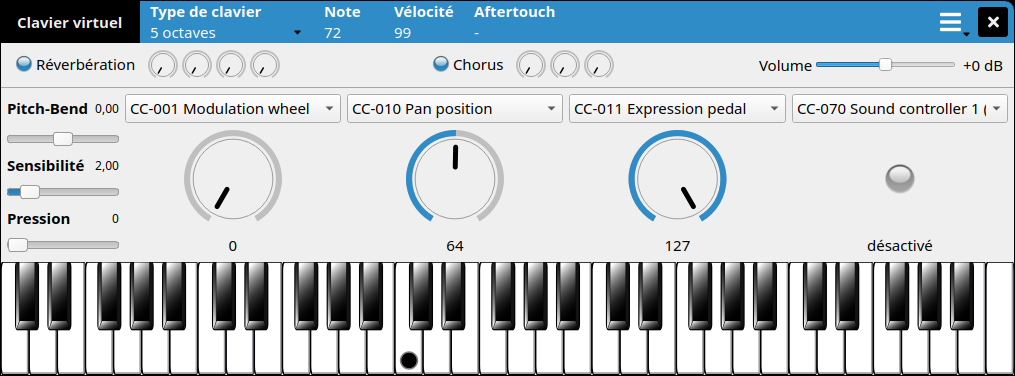
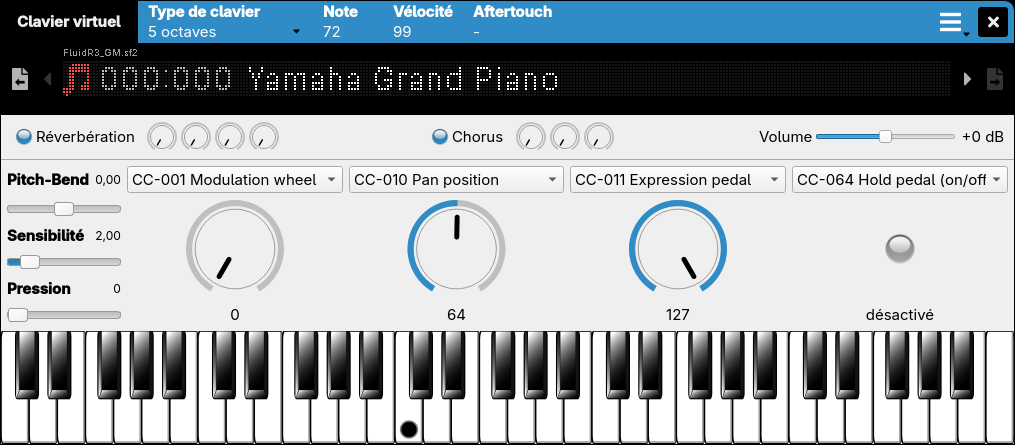
Virtual keyboard update

diff --git a/ru/manual/soundfont-explorer.md b/ru/manual/soundfont-explorer.md
@@ -22,7 +22,7 @@
   * количество семплов, инструментов и пресетов,
   * названия первых пресетов.
 
-Эти сведения выровнены по столбцам под заголовком. Кнопка :guilabel:`Отображение` справа от текстового поля открывает меню, в котором можно выбрать отображаемые столбцы (скрыть можно все, кроме имени) и включить или отключить пункт :guilabel:`Сводка пресетов`, то есть названия первых пресетов во второй строке. Без этой сводки каждый файл занимает одну строку, как в таблице.
+Эти сведения выровнены по столбцам под заголовком. Кнопка ![Отображение](images/toolbar_display.png "Отображение"){.inline} справа от текстового поля открывает меню, в котором можно выбрать отображаемые столбцы (скрыть можно все, кроме имени) и включить или отключить пункт :guilabel:`Сводка пресетов`, то есть названия первых пресетов во второй строке. Без этой сводки каждый файл занимает одну строку, как в таблице.
 
 ### Сведения о каждом семпле
 
@@ -67,9 +67,11 @@
 ## Воспроизведение элементов {#doc_play}
 
 
-Кнопка ![MIDI](images/toolbar_midi.png "MIDI"){.inline} справа от кнопки :guilabel:`Отображение` показывает или скрывает [MIDI-проигрыватель](manual/soundfont-editor/toolbar.md#doc_midi_player), кнопка ![piano](images/toolbar_piano.png "piano"){.inline} рядом с ней — [виртуальную клавиатуру](manual/soundfont-editor/toolbar.md#doc_keyboard), а кнопка ![рекордер](images/toolbar_recorder.png "рекордер"){.inline} — [рекордер](manual/soundfont-editor/toolbar.md#doc_recorder), как и кнопки на панели инструментов редактора.
+Кнопка ![MIDI](images/toolbar_midi.png "MIDI"){.inline} справа от кнопки ![Отображение](images/toolbar_display.png "Отображение"){.inline} показывает или скрывает [MIDI-проигрыватель](manual/soundfont-editor/toolbar.md#doc_midi_player), кнопка ![piano](images/toolbar_piano.png "piano"){.inline} рядом с ней — [виртуальную клавиатуру](manual/soundfont-editor/toolbar.md#doc_keyboard), а кнопка ![рекордер](images/toolbar_recorder.png "рекордер"){.inline} — [рекордер](manual/soundfont-editor/toolbar.md#doc_recorder), как и кнопки на панели инструментов редактора.
 
 Семпл, инструмент или пресет, выбранный в списках справа, можно сыграть на виртуальной клавиатуре или на внешней MIDI-клавиатуре, даже если виртуальная клавиатура скрыта. Как и в редакторе, виртуальная клавиатура показывает диапазон элемента или корневую клавишу семпла. Семпл воспроизводится в петле, если она у него есть, и в стерео, если отмечен параметр :guilabel:`стерео` [проигрывателя](manual/soundfont-editor/editing-pages/sample-editor.md#doc_player) семплов.
+
+[Дисплей](manual/soundfont-editor/toolbar.md#doc_keyboard_element) виртуальной клавиатуры показывает играемый элемент и имя его файла. Его стрелки выбирают предыдущий или следующий элемент, а две внешние кнопки — предыдущий или следующий файл, также с помощью :kbd:`PageUp` / :kbd:`PageDown` и :kbd:`Shift`+:kbd:`PageUp` / :kbd:`Shift`+:kbd:`PageDown`: так можно перебирать и играть файлы каталога, не покидая виртуальную клавиатуру.
 
 Когда элемент файла выбирается впервые, SoundFont загружается в фоновом режиме без открытия вкладки. Затем SoundFont сохраняется, пока выбираются элементы того же файла, и освобождается, когда в основном списке выбирается другой файл.
 

diff --git a/ja/manual/soundfont-editor/toolbar.md b/ja/manual/soundfont-editor/toolbar.md
@@ -154,6 +154,16 @@ MIDI信号
 ![仮想キーボード](images/virtual_keyboard.png "仮想キーボード")
 
 
+### 演奏中の要素 {#doc_keyboard_element}
+
+
+バナーの下の表示部には、キーボードで演奏している要素が表示されます。サンプル、インストゥルメント、プリセットの名前の前にそのアイコンが付き、プリセットの場合はバンク番号とプリセット番号も付きます。その上には、ファイル名が小さな文字で表示されます（一度も保存していないSoundFontの場合はSoundFontの名前）。演奏できるものがないとき、つまりサンプル、インストゥルメント、プリセットのどれも選択されていないとき、複数の要素が選択されているとき、または現在のタブがエディターでもSoundFontエクスプローラーでもないときは、:guilabel:`演奏できる要素が選択されていません` と表示されます。
+
+表示部の左右の矢印で、[ツリー](manual/soundfont-editor/tree.md)または[SoundFontエクスプローラー](manual/soundfont-explorer.md#doc_play)のリストの順に、同じ種類の前または次の要素を選択できます。フォーカスは仮想キーボードに残るため、新しい要素をすぐにパソコンのキーボードで演奏できます。SoundFontエクスプローラーでファイルだけを選択しているとき、またはツリーで見出しだけを選択しているときは、右の矢印でその見出しの下の最初の要素、またはファイルやSoundFontの最初のプリセット（なければインストゥルメント、それもなければサンプル）が選択されます。矢印は :kbd:`PageUp` と :kbd:`PageDown` でも操作できます。
+
+表示部の両端にある2つのボタンで、前または次のファイルを選択できます。:kbd:`Shift`+:kbd:`PageUp` と :kbd:`Shift`+:kbd:`PageDown` でも操作できます。SoundFontエクスプローラーではメインリストの前または次のファイルが選択され、サンプル、インストゥルメント、プリセットのいずれかを選択している場合は、新しいファイルで同じ種類の最初の要素が選択されます。エディターでは、タブの順序で前または次のエディターに切り替わり（ほかの種類のタブは飛ばされます）、そのエディターでの選択がそのまま使われます。ほかのタブでは、これらのボタンは無効になります。
+
+
 ### ピアノ鍵盤
 
 
@@ -200,6 +210,10 @@ MIDI信号
   :kbd:`Ctrl`+:kbd:`1` を使うと、最も低いオクターブを演奏できます。
   最も高いオクターブには :kbd:`Ctrl`+:kbd:`8` で届きます。
   これらのショートカットも、仮想キーボードのウィンドウがアクティブであれば使えます。
+
+:kbd:`PageUp` / :kbd:`PageDown`
+: 前または次の[演奏中の要素](#doc_keyboard_element)を選択します。:kbd:`Shift` キーと組み合わせると、SoundFontエクスプローラーの前または次のファイル、または前または次のエディターを選択します。
+  これらも、仮想キーボードのウィンドウがアクティブになればすぐに使えます。
 
 :kbd:`→` / :kbd:`←`
 : 右矢印または左矢印を押すと、最後に弾いたキーのすぐ上またはすぐ下の音を、同じベロシティで鳴らします。
@@ -285,6 +299,7 @@ MIDIプレーヤーは[シンセモード](tutorials/use-polyphone-as-a-synthesi
 * 再生を停止して先頭に戻るボタン
 * [再生設定](#doc_midi_player_settings)を開くボタン
 
+MIDIファイルは、ウィンドウにドラッグ＆ドロップして開くこともできます。
 ファイルを読み込めない場合は、チャンネルの代わりにその理由が表示されます。
 ウィンドウを閉じると再生は停止します。
 

diff --git a/fr/manual/soundfont-explorer.md b/fr/manual/soundfont-explorer.md
@@ -22,7 +22,7 @@ Un clic sur un fichier pouvant être scanné affiche, dans les listes de la part
   * nombre d'échantillons, d'instruments et d'ensembles,
   * noms des premiers ensembles.
 
-Ces détails sont alignés en colonnes sous un en-tête. Le bouton :guilabel:`Affichage`, à droite du champ de texte, ouvre un menu permettant de choisir les colonnes affichées (toutes peuvent être masquées sauf le nom) et d'afficher ou non le :guilabel:`Résumé des ensembles`, c'est-à-dire les noms des premiers ensembles sur une seconde ligne. Sans ce résumé, chaque fichier tient sur une seule ligne, comme dans un tableau.
+Ces détails sont alignés en colonnes sous un en-tête. Le bouton ![Affichage](images/toolbar_display.png "Affichage"){.inline}, à droite du champ de texte, ouvre un menu permettant de choisir les colonnes affichées (toutes peuvent être masquées sauf le nom) et d'afficher ou non le :guilabel:`Résumé des ensembles`, c'est-à-dire les noms des premiers ensembles sur une seconde ligne. Sans ce résumé, chaque fichier tient sur une seule ligne, comme dans un tableau.
 
 ### Informations pour chaque échantillon
 
@@ -67,9 +67,11 @@ Ces opérations permettent de gérer et de nettoyer rapidement une collection lo
 ## Jouer les éléments {#doc_play}
 
 
-Le bouton ![MIDI](images/toolbar_midi.png "MIDI"){.inline}, à droite du bouton :guilabel:`Affichage`, affiche ou masque le [lecteur MIDI](manual/soundfont-editor/toolbar.md#doc_midi_player), le bouton ![piano](images/toolbar_piano.png "piano"){.inline} situé à côté affiche ou masque le [clavier virtuel](manual/soundfont-editor/toolbar.md#doc_keyboard), et le bouton ![magnétophone](images/toolbar_recorder.png "magnétophone"){.inline} affiche ou masque le [magnétophone](manual/soundfont-editor/toolbar.md#doc_recorder), comme les boutons de la barre d'outils de l'éditeur.
+Le bouton ![MIDI](images/toolbar_midi.png "MIDI"){.inline}, à droite du bouton ![Affichage](images/toolbar_display.png "Affichage"){.inline}, affiche ou masque le [lecteur MIDI](manual/soundfont-editor/toolbar.md#doc_midi_player), le bouton ![piano](images/toolbar_piano.png "piano"){.inline} situé à côté affiche ou masque le [clavier virtuel](manual/soundfont-editor/toolbar.md#doc_keyboard), et le bouton ![magnétophone](images/toolbar_recorder.png "magnétophone"){.inline} affiche ou masque le [magnétophone](manual/soundfont-editor/toolbar.md#doc_recorder), comme les boutons de la barre d'outils de l'éditeur.
 
 L'échantillon, l'instrument ou l'ensemble sélectionné dans les listes de droite peut être joué avec le clavier virtuel, ou avec un clavier MIDI externe même si le clavier virtuel est masqué. Comme dans l'éditeur, le clavier virtuel montre l'étendue de l'élément, ou la note de référence d'un échantillon. Un échantillon est joué en boucle s'il en possède une, et en stéréo si l'option :guilabel:`stéréo` du [lecteur](manual/soundfont-editor/editing-pages/sample-editor.md#doc_player) d'échantillon est cochée.
+
+L'[afficheur](manual/soundfont-editor/toolbar.md#doc_keyboard_element) du clavier virtuel montre l'élément joué et le nom de son fichier. Ses flèches sélectionnent l'élément précédent ou suivant et ses deux boutons extérieurs le fichier précédent ou suivant, également avec :kbd:`Page↑` / :kbd:`Page↓` et :kbd:`Maj`+:kbd:`Page↑` / :kbd:`Maj`+:kbd:`Page↓` : les fichiers d'un répertoire peuvent ainsi être parcourus et joués sans quitter le clavier virtuel.
 
 La première fois qu'un élément d'un fichier est sélectionné, la banque de sons est chargée en arrière-plan sans ouvrir d'onglet. La banque de sons est ensuite conservée tant que les éléments sélectionnés appartiennent au même fichier, et libérée lorsqu'un autre fichier est sélectionné dans la liste principale.
 

diff --git a/de/manual/soundfont-explorer.md b/de/manual/soundfont-explorer.md
@@ -22,7 +22,7 @@ Ein Klick auf eine durchsuchbare Datei zeigt in den Listen auf der rechten Seite
   * Anzahl der Samples, Instrumente und Presets,
   * Namen der ersten Presets.
 
-Diese Angaben sind in Spalten unter einer Kopfzeile ausgerichtet. Die Schaltfläche :guilabel:`Anzeige` rechts neben dem Textfeld öffnet ein Menü, in dem die angezeigten Spalten gewählt werden (alle außer dem Namen können ausgeblendet werden) und festgelegt wird, ob die :guilabel:`Preset-Übersicht` angezeigt wird, also die Namen der ersten Presets in einer zweiten Zeile. Ohne diese Übersicht belegt jede Datei nur eine Zeile, wie in einer Tabelle.
+Diese Angaben sind in Spalten unter einer Kopfzeile ausgerichtet. Die Schaltfläche ![Anzeige](images/toolbar_display.png "Anzeige"){.inline} rechts neben dem Textfeld öffnet ein Menü, in dem die angezeigten Spalten gewählt werden (alle außer dem Namen können ausgeblendet werden) und festgelegt wird, ob die :guilabel:`Preset-Übersicht` angezeigt wird, also die Namen der ersten Presets in einer zweiten Zeile. Ohne diese Übersicht belegt jede Datei nur eine Zeile, wie in einer Tabelle.
 
 ### Informationen zu jedem Sample
 
@@ -67,9 +67,11 @@ Mit diesen Operationen lässt sich eine lokale Soundfont-Sammlung schnell verwal
 ## Elemente abspielen {#doc_play}
 
 
-Der Button ![MIDI](images/toolbar_midi.png "MIDI"){.inline} rechts neben dem Button :guilabel:`Anzeige` blendet den [MIDI-Player](manual/soundfont-editor/toolbar.md#doc_midi_player) ein oder aus, der Button ![piano](images/toolbar_piano.png "piano"){.inline} daneben die [virtuelle Tastatur](manual/soundfont-editor/toolbar.md#doc_keyboard) und der Button ![Rekorder](images/toolbar_recorder.png "Rekorder"){.inline} den [Rekorder](manual/soundfont-editor/toolbar.md#doc_recorder), wie die entsprechenden Buttons der Werkzeugleiste des Editors.
+Der Button ![MIDI](images/toolbar_midi.png "MIDI"){.inline} rechts neben dem Button ![Anzeige](images/toolbar_display.png "Anzeige"){.inline} blendet den [MIDI-Player](manual/soundfont-editor/toolbar.md#doc_midi_player) ein oder aus, der Button ![piano](images/toolbar_piano.png "piano"){.inline} daneben die [virtuelle Tastatur](manual/soundfont-editor/toolbar.md#doc_keyboard) und der Button ![Rekorder](images/toolbar_recorder.png "Rekorder"){.inline} den [Rekorder](manual/soundfont-editor/toolbar.md#doc_recorder), wie die entsprechenden Buttons der Werkzeugleiste des Editors.
 
 Das in den Listen auf der rechten Seite ausgewählte Sample, Instrument oder Preset kann mit der virtuellen Tastatur gespielt werden, oder mit einer externen MIDI-Tastatur, auch wenn die virtuelle Tastatur ausgeblendet ist. Wie im Editor zeigt die virtuelle Tastatur den Tonumfang des Elements bzw. die Basisnote eines Samples. Ein Sample wird im Loop abgespielt, wenn es einen Loop besitzt, und in Stereo, wenn die Option :guilabel:`Stereo` des [Players](manual/soundfont-editor/editing-pages/sample-editor.md#doc_player) für Samples aktiviert ist.
+
+Die [Anzeige](manual/soundfont-editor/toolbar.md#doc_keyboard_element) der virtuellen Tastatur zeigt das gespielte Element und den Namen seiner Datei. Ihre Pfeile wählen das vorherige oder nächste Element aus und ihre beiden äußeren Schaltflächen die vorherige oder nächste Datei, auch mit :kbd:`PageUp` / :kbd:`PageDown` und :kbd:`Shift`+:kbd:`PageUp` / :kbd:`Shift`+:kbd:`PageDown`: So lassen sich die Dateien eines Verzeichnisses durchgehen und spielen, ohne die virtuelle Tastatur zu verlassen.
 
 Wenn zum ersten Mal ein Element einer Datei ausgewählt wird, wird der Soundfont im Hintergrund geladen, ohne einen Tab zu öffnen. Der Soundfont bleibt dann geladen, solange Elemente derselben Datei ausgewählt werden, und wird freigegeben, sobald in der Hauptliste eine andere Datei ausgewählt wird.
 

diff --git a/it/manual/soundfont-explorer.md b/it/manual/soundfont-explorer.md
@@ -22,7 +22,7 @@ Un clic su un file analizzabile mostra, negli elenchi nella parte destra dell'in
   * numero di campioni, strumenti e preset,
   * nomi dei primi preset.
 
-Questi dettagli sono allineati in colonne sotto un'intestazione. Il pulsante :guilabel:`Visualizzazione`, a destra del campo di testo, apre un menu che permette di scegliere le colonne mostrate (tutte possono essere nascoste tranne il nome) e di mostrare o meno il :guilabel:`Riepilogo dei preset`, cioè i nomi dei primi preset su una seconda riga. Senza questo riepilogo, ogni file occupa una sola riga, come in una tabella.
+Questi dettagli sono allineati in colonne sotto un'intestazione. Il pulsante ![Visualizzazione](images/toolbar_display.png "Visualizzazione"){.inline}, a destra del campo di testo, apre un menu che permette di scegliere le colonne mostrate (tutte possono essere nascoste tranne il nome) e di mostrare o meno il :guilabel:`Riepilogo dei preset`, cioè i nomi dei primi preset su una seconda riga. Senza questo riepilogo, ogni file occupa una sola riga, come in una tabella.
 
 ### Informazioni per ogni campione
 
@@ -67,9 +67,11 @@ Queste operazioni permettono di gestire e riordinare rapidamente una raccolta lo
 ## Suonare gli elementi {#doc_play}
 
 
-Il pulsante ![MIDI](images/toolbar_midi.png "MIDI"){.inline}, a destra del pulsante :guilabel:`Visualizzazione`, mostra o nasconde il [lettore MIDI](manual/soundfont-editor/toolbar.md#doc_midi_player), il pulsante ![piano](images/toolbar_piano.png "piano"){.inline} accanto mostra o nasconde la [tastiera virtuale](manual/soundfont-editor/toolbar.md#doc_keyboard), e il pulsante ![registratore](images/toolbar_recorder.png "registratore"){.inline} mostra o nasconde il [registratore](manual/soundfont-editor/toolbar.md#doc_recorder), come i pulsanti della barra degli strumenti dell'editor.
+Il pulsante ![MIDI](images/toolbar_midi.png "MIDI"){.inline}, a destra del pulsante ![Visualizzazione](images/toolbar_display.png "Visualizzazione"){.inline}, mostra o nasconde il [lettore MIDI](manual/soundfont-editor/toolbar.md#doc_midi_player), il pulsante ![piano](images/toolbar_piano.png "piano"){.inline} accanto mostra o nasconde la [tastiera virtuale](manual/soundfont-editor/toolbar.md#doc_keyboard), e il pulsante ![registratore](images/toolbar_recorder.png "registratore"){.inline} mostra o nasconde il [registratore](manual/soundfont-editor/toolbar.md#doc_recorder), come i pulsanti della barra degli strumenti dell'editor.
 
 Il campione, lo strumento o il preset selezionato negli elenchi di destra può essere suonato con la tastiera virtuale, oppure con una tastiera MIDI esterna anche se la tastiera virtuale è nascosta. Come nell'editor, la tastiera virtuale mostra l'estensione dell'elemento, o la nota di base di un campione. Un campione viene riprodotto in loop se ne ha uno, e in stereo se l'opzione :guilabel:`stereo` del [lettore](manual/soundfont-editor/editing-pages/sample-editor.md#doc_player) del campione è selezionata.
+
+Il [display](manual/soundfont-editor/toolbar.md#doc_keyboard_element) della tastiera virtuale mostra l'elemento suonato e il nome del suo file. Le sue frecce selezionano l'elemento precedente o successivo e i suoi due pulsanti esterni il file precedente o successivo, anche con :kbd:`PageUp` / :kbd:`PageDown` e :kbd:`Shift`+:kbd:`PageUp` / :kbd:`Shift`+:kbd:`PageDown`: i file di una cartella possono così essere sfogliati e suonati senza lasciare la tastiera virtuale.
 
 La prima volta che viene selezionato un elemento di un file, il soundfont viene caricato in background senza aprire una scheda. Il soundfont viene poi conservato finché vengono selezionati elementi dello stesso file, e rilasciato quando nell'elenco principale viene selezionato un altro file.
 

diff --git a/es/manual/soundfont-explorer.md b/es/manual/soundfont-explorer.md
@@ -22,7 +22,7 @@ Al hacer clic en un archivo analizable se muestran, en las listas del lado derec
   * número de muestras, instrumentos y conjuntos,
   * nombres de los primeros conjuntos.
 
-Estos detalles se alinean en columnas bajo un encabezado. El botón :guilabel:`Visualización`, a la derecha del campo de texto, abre un menú que permite elegir las columnas mostradas (todas pueden ocultarse salvo el nombre) y mostrar o no el :guilabel:`Resumen de los conjuntos`, es decir, los nombres de los primeros conjuntos en una segunda línea. Sin este resumen, cada archivo ocupa una sola línea, como en una tabla.
+Estos detalles se alinean en columnas bajo un encabezado. El botón ![Visualización](images/toolbar_display.png "Visualización"){.inline}, a la derecha del campo de texto, abre un menú que permite elegir las columnas mostradas (todas pueden ocultarse salvo el nombre) y mostrar o no el :guilabel:`Resumen de los conjuntos`, es decir, los nombres de los primeros conjuntos en una segunda línea. Sin este resumen, cada archivo ocupa una sola línea, como en una tabla.
 
 ### Información de cada muestra
 
@@ -67,9 +67,11 @@ Estas operaciones permiten gestionar y ordenar rápidamente una colección local
 ## Tocar los elementos {#doc_play}
 
 
-El botón ![MIDI](images/toolbar_midi.png "MIDI"){.inline}, a la derecha del botón :guilabel:`Visualización`, muestra u oculta el [reproductor MIDI](manual/soundfont-editor/toolbar.md#doc_midi_player), el botón ![piano](images/toolbar_piano.png "piano"){.inline} situado a su lado muestra u oculta el [teclado virtual](manual/soundfont-editor/toolbar.md#doc_keyboard), y el botón ![grabadora](images/toolbar_recorder.png "grabadora"){.inline} muestra u oculta la [grabadora](manual/soundfont-editor/toolbar.md#doc_recorder), igual que los botones de la barra de herramientas del editor.
+El botón ![MIDI](images/toolbar_midi.png "MIDI"){.inline}, a la derecha del botón ![Visualización](images/toolbar_display.png "Visualización"){.inline}, muestra u oculta el [reproductor MIDI](manual/soundfont-editor/toolbar.md#doc_midi_player), el botón ![piano](images/toolbar_piano.png "piano"){.inline} situado a su lado muestra u oculta el [teclado virtual](manual/soundfont-editor/toolbar.md#doc_keyboard), y el botón ![grabadora](images/toolbar_recorder.png "grabadora"){.inline} muestra u oculta la [grabadora](manual/soundfont-editor/toolbar.md#doc_recorder), igual que los botones de la barra de herramientas del editor.
 
 La muestra, el instrumento o el conjunto seleccionado en las listas de la derecha se puede tocar con el teclado virtual, o con un teclado MIDI externo aunque el teclado virtual esté oculto. Como en el editor, el teclado virtual muestra la extensión del elemento, o la nota raíz de una muestra. Una muestra se reproduce en bucle si tiene uno, y en estéreo si la opción :guilabel:`estéreo` del [reproductor](manual/soundfont-editor/editing-pages/sample-editor.md#doc_player) de muestras está marcada.
+
+La [pantalla](manual/soundfont-editor/toolbar.md#doc_keyboard_element) del teclado virtual muestra el elemento tocado y el nombre de su archivo. Sus flechas seleccionan el elemento anterior o siguiente y sus dos botones exteriores el archivo anterior o siguiente, también con :kbd:`PageUp` / :kbd:`PageDown` y :kbd:`Shift`+:kbd:`PageUp` / :kbd:`Shift`+:kbd:`PageDown`: así se pueden recorrer y tocar los archivos de un directorio sin salir del teclado virtual.
 
 La primera vez que se selecciona un elemento de un archivo, el soundfont se carga en segundo plano sin abrir ninguna pestaña. Después, el soundfont se conserva mientras se seleccionen elementos del mismo archivo, y se libera cuando se selecciona otro archivo en la lista principal.
 

diff --git a/pt/manual/soundfont-explorer.md b/pt/manual/soundfont-explorer.md
@@ -22,7 +22,7 @@ Clicar em um arquivo analisável exibe, nas listas do lado direito da interface,
   * número de amostras, instrumentos e predefinições,
   * nomes das primeiras predefinições.
 
-Esses detalhes ficam alinhados em colunas sob um cabeçalho. O botão :guilabel:`Visualização`, à direita do campo de texto, abre um menu que permite escolher as colunas exibidas (todas podem ser ocultadas, exceto o nome) e exibir ou não o :guilabel:`Resumo das predefinições`, ou seja, os nomes das primeiras predefinições em uma segunda linha. Sem esse resumo, cada arquivo ocupa uma única linha, como em uma tabela.
+Esses detalhes ficam alinhados em colunas sob um cabeçalho. O botão ![Visualização](images/toolbar_display.png "Visualização"){.inline}, à direita do campo de texto, abre um menu que permite escolher as colunas exibidas (todas podem ser ocultadas, exceto o nome) e exibir ou não o :guilabel:`Resumo das predefinições`, ou seja, os nomes das primeiras predefinições em uma segunda linha. Sem esse resumo, cada arquivo ocupa uma única linha, como em uma tabela.
 
 ### Informações de cada amostra
 
@@ -67,9 +67,11 @@ Essas operações permitem gerenciar e organizar rapidamente uma coleção local
 ## Tocar os elementos {#doc_play}
 
 
-O botão ![MIDI](images/toolbar_midi.png "MIDI"){.inline}, à direita do botão :guilabel:`Visualização`, exibe ou oculta o [reprodutor MIDI](manual/soundfont-editor/toolbar.md#doc_midi_player), o botão ![piano](images/toolbar_piano.png "piano"){.inline} ao lado exibe ou oculta o [teclado virtual](manual/soundfont-editor/toolbar.md#doc_keyboard), e o botão ![gravador](images/toolbar_recorder.png "gravador"){.inline} exibe ou oculta o [gravador](manual/soundfont-editor/toolbar.md#doc_recorder), como os botões da barra de ferramentas do editor.
+O botão ![MIDI](images/toolbar_midi.png "MIDI"){.inline}, à direita do botão ![Visualização](images/toolbar_display.png "Visualização"){.inline}, exibe ou oculta o [reprodutor MIDI](manual/soundfont-editor/toolbar.md#doc_midi_player), o botão ![piano](images/toolbar_piano.png "piano"){.inline} ao lado exibe ou oculta o [teclado virtual](manual/soundfont-editor/toolbar.md#doc_keyboard), e o botão ![gravador](images/toolbar_recorder.png "gravador"){.inline} exibe ou oculta o [gravador](manual/soundfont-editor/toolbar.md#doc_recorder), como os botões da barra de ferramentas do editor.
 
 A amostra, o instrumento ou a predefinição selecionada nas listas da direita pode ser tocada com o teclado virtual, ou com um teclado MIDI externo mesmo que o teclado virtual esteja oculto. Como no editor, o teclado virtual mostra a extensão do elemento, ou a nota base de uma amostra. Uma amostra é tocada em loop se tiver um, e em estéreo se a opção :guilabel:`estéreo` do [reprodutor](manual/soundfont-editor/editing-pages/sample-editor.md#doc_player) de amostras estiver marcada.
+
+O [visor](manual/soundfont-editor/toolbar.md#doc_keyboard_element) do teclado virtual mostra o elemento tocado e o nome do seu arquivo. Suas setas selecionam o elemento anterior ou seguinte e seus dois botões externos o arquivo anterior ou seguinte, também com :kbd:`PageUp` / :kbd:`PageDown` e :kbd:`Shift`+:kbd:`PageUp` / :kbd:`Shift`+:kbd:`PageDown`: os arquivos de um diretório podem assim ser percorridos e tocados sem sair do teclado virtual.
 
 Na primeira vez que um elemento de um arquivo é selecionado, a soundfont é carregada em segundo plano sem abrir uma aba. A soundfont é então mantida enquanto elementos do mesmo arquivo forem selecionados, e liberada quando outro arquivo é selecionado na lista principal.
 

diff --git a/fr/manual/soundfont-editor/toolbar.md b/fr/manual/soundfont-editor/toolbar.md
@@ -154,6 +154,16 @@ Le clavier virtuel peut également être affiché depuis l'[explorateur de banqu
 ![Clavier virtuel](images/virtual_keyboard.png "Clavier virtuel")
 
 
+### Élément joué {#doc_keyboard_element}
+
+
+L'afficheur situé sous le bandeau montre l'élément joué par le clavier : le nom de l'échantillon, de l'instrument ou de l'ensemble, précédé de son icône et, pour un ensemble, de ses numéros de banque et d'ensemble. Le nom de son fichier est écrit au-dessus en petits caractères (ou le nom de la banque de sons si elle n'a jamais été enregistrée). :guilabel:`Aucun élément jouable sélectionné` s'affiche lorsque rien ne peut être joué : aucun échantillon, instrument ou ensemble n'est sélectionné, plusieurs éléments sont sélectionnés, ou l'onglet courant n'est ni un éditeur ni un explorateur de banques de sons.
+
+Les flèches de part et d'autre de l'afficheur sélectionnent l'élément précédent ou suivant du même type, dans l'ordre de l'[arborescence](manual/soundfont-editor/tree.md) ou des listes de l'[explorateur de banques de sons](manual/soundfont-explorer.md#doc_play). Le clavier virtuel garde le focus, ce qui permet de jouer aussitôt le nouvel élément avec le clavier de l'ordinateur. Lorsque seul un fichier est sélectionné dans l'explorateur, ou seulement un entête dans l'arborescence, la flèche de droite sélectionne le premier élément sous cet entête, ou le premier ensemble (à défaut instrument, à défaut échantillon) du fichier ou de la banque de sons. Les flèches sont également accessibles avec :kbd:`Page↑` et :kbd:`Page↓`.
+
+Deux boutons supplémentaires aux extrémités de l'afficheur sélectionnent le fichier précédent ou suivant, également avec :kbd:`Maj`+:kbd:`Page↑` et :kbd:`Maj`+:kbd:`Page↓`. Avec un explorateur de banques de sons, il s'agit du fichier précédent ou suivant de la liste principale : si un échantillon, un instrument ou un ensemble est sélectionné, le premier élément du même type est alors sélectionné dans le nouveau fichier. Avec un éditeur, il s'agit de l'éditeur précédent ou suivant dans l'ordre des onglets (les autres types d'onglets étant ignorés), qui conserve sa propre sélection. Dans les autres onglets, ces boutons sont désactivés.
+
+
 ### Clavier de piano
 
 
@@ -200,6 +210,10 @@ en utilisant un clavier MIDI externe
   Après l'utilisation de :kbd:`Ctrl`+:kbd:`1`, les octaves les plus graves peuvent être jouées.
   Les octaves les plus hautes sont atteintes en utilisant :kbd:`Ctrl`+:kbd:`8`.
   Ils fonctionnent eux aussi dès que la fenêtre du clavier virtuel est active.
+
+:kbd:`Page↑` / :kbd:`Page↓`
+: Ces touches sélectionnent l'[élément joué](#doc_keyboard_element) précédent ou suivant, et le fichier précédent ou suivant d'un explorateur de banques de sons, ou l'éditeur précédent ou suivant, lorsqu'elles sont combinées avec la touche :kbd:`Maj`.
+  Elles fonctionnent également dès que la fenêtre du clavier virtuel est active.
 
 :kbd:`→` / :kbd:`←`
 : Les flèches droite et gauche jouent la note située juste au-dessus ou juste en dessous de la dernière note jouée, avec la même vélocité.
@@ -285,6 +299,7 @@ Le bandeau en haut de la fenêtre contient, de gauche à droite&nbsp;:
 * un bouton pour arrêter la lecture et revenir au début,
 * un bouton ouvrant les [paramètres de lecture](#doc_midi_player_settings).
 
+Un fichier MIDI peut aussi être ouvert par glisser-déposer sur la fenêtre.
 Si le fichier ne peut pas être lu, la raison est affichée à la place des canaux.
 La lecture s'arrête lorsque la fenêtre est fermée.
 

diff --git a/en/manual/soundfont-explorer.md b/en/manual/soundfont-explorer.md
@@ -22,7 +22,7 @@ Clicking on a scannable file displays, in the lists on the right side of the int
   * number of samples, instruments and presets,
   * names of the first presets.
 
-These details are aligned in columns under a header. The :guilabel:`Display` button, to the right of the text field, opens a menu for choosing the columns shown (all of them can be hidden except the name) and whether the :guilabel:`Preset summary` is displayed, that is the names of the first presets on a second line. Without this summary, each file takes up a single line, as in a table.
+These details are aligned in columns under a header. The ![Display](images/toolbar_display.png "Display"){.inline} button, to the right of the text field, opens a menu for choosing the columns shown (all of them can be hidden except the name) and whether the :guilabel:`Preset summary` is displayed, that is the names of the first presets on a second line. Without this summary, each file takes up a single line, as in a table.
 
 ### Information for each sample
 
@@ -67,9 +67,11 @@ These operations allow you to quickly manage and clean up a local soundfont coll
 ## Playing the elements {#doc_play}
 
 
-The ![MIDI](images/toolbar_midi.png "MIDI"){.inline} button, on the right of the :guilabel:`Display` button, shows or hides the [MIDI player](manual/soundfont-editor/toolbar.md#doc_midi_player), the ![piano](images/toolbar_piano.png "piano"){.inline} button next to it shows or hides the [virtual keyboard](manual/soundfont-editor/toolbar.md#doc_keyboard), and the ![recorder](images/toolbar_recorder.png "recorder"){.inline} button shows or hides the [recorder](manual/soundfont-editor/toolbar.md#doc_recorder), like the buttons of the editor toolbar.
+The ![MIDI](images/toolbar_midi.png "MIDI"){.inline} button, on the right of the ![Display](images/toolbar_display.png "Display"){.inline} button, shows or hides the [MIDI player](manual/soundfont-editor/toolbar.md#doc_midi_player), the ![piano](images/toolbar_piano.png "piano"){.inline} button next to it shows or hides the [virtual keyboard](manual/soundfont-editor/toolbar.md#doc_keyboard), and the ![recorder](images/toolbar_recorder.png "recorder"){.inline} button shows or hides the [recorder](manual/soundfont-editor/toolbar.md#doc_recorder), like the buttons of the editor toolbar.
 
 The sample, instrument or preset selected in the lists on the right can be played with the virtual keyboard, or with an external MIDI keyboard even if the virtual keyboard is hidden. As in the editor, the virtual keyboard shows the range of the element, or the root key of a sample. A sample is played in a loop if it has one, and in stereo if the :guilabel:`stereo` option of the sample [player](manual/soundfont-editor/editing-pages/sample-editor.md#doc_player) is ticked.
+
+The [display](manual/soundfont-editor/toolbar.md#doc_keyboard_element) of the virtual keyboard shows the element played and the name of its file. Its arrows select the previous or next element and its two outer buttons the previous or next file, also with :kbd:`PageUp` / :kbd:`PageDown` and :kbd:`Shift`+:kbd:`PageUp` / :kbd:`Shift`+:kbd:`PageDown`: the files of a directory can be browsed and played without leaving the virtual keyboard.
 
 The first time an element of a file is selected, the soundfont is loaded in the background without opening a tab. The soundfont is then kept as long as elements of the same file are selected, and released when another file is selected in the main list.
 

diff --git a/de/manual/soundfont-editor/toolbar.md b/de/manual/soundfont-editor/toolbar.md
@@ -154,6 +154,16 @@ Die virtuelle Tastatur kann auch im [Soundfont-Explorer](manual/soundfont-explor
 ![Virtuelle Tastatur](images/virtual_keyboard.png "Virtuelle Tastatur")
 
 
+### Gespieltes Element {#doc_keyboard_element}
+
+
+Die Anzeige unter dem Banner zeigt das Element, das mit der Tastatur gespielt wird: den Namen des Samples, Instruments oder Presets, mit seinem Symbol davor und bei einem Preset mit seiner Bank- und Presetnummer. Darüber steht in kleiner Schrift der Name seiner Datei (oder der Name des Soundfonts, wenn er noch nie gespeichert wurde). :guilabel:`Kein spielbares Element ausgewählt` wird angezeigt, wenn nichts gespielt werden kann: kein Sample, Instrument oder Preset ist ausgewählt, mehrere Elemente sind ausgewählt, oder der aktuelle Tab ist weder ein Editor noch ein Soundfont-Explorer.
+
+Die Pfeile links und rechts der Anzeige wählen das vorherige oder nächste Element desselben Typs aus, in der Reihenfolge der [Baumansicht](manual/soundfont-editor/tree.md) oder der Listen des [Soundfont-Explorers](manual/soundfont-explorer.md#doc_play). Die virtuelle Tastatur behält den Fokus, sodass das neue Element sofort mit der Computertastatur gespielt werden kann. Ist im Soundfont-Explorer nur eine Datei ausgewählt oder in der Baumansicht nur eine Überschrift, wählt der rechte Pfeil das erste Element unter dieser Überschrift aus, bzw. das erste Preset (sonst Instrument, sonst Sample) der Datei oder des Soundfonts. Die Pfeile lassen sich auch mit :kbd:`PageUp` und :kbd:`PageDown` bedienen.
+
+Zwei weitere Schaltflächen an beiden Enden der Anzeige wählen die vorherige oder nächste Datei aus, auch mit :kbd:`Shift`+:kbd:`PageUp` und :kbd:`Shift`+:kbd:`PageDown`. In einem Soundfont-Explorer ist dies die vorherige oder nächste Datei der Hauptliste: Ist ein Sample, Instrument oder Preset ausgewählt, wird anschließend das erste Element desselben Typs in der neuen Datei ausgewählt. In einem Editor ist dies der vorherige oder nächste Editor in der Reihenfolge der Tabs (andere Arten von Tabs werden übersprungen), der seine eigene Auswahl behält. In den übrigen Tabs sind diese Schaltflächen deaktiviert.
+
+
 ### Klaviatur
 
 
@@ -199,6 +209,10 @@ mit einer externen MIDI-Tastatur
 : Diese Tastenkombinationen ändern die Oktaven, die mit der Computertastatur gespielt werden.
   Nach :kbd:`Ctrl`+:kbd:`1` können die tiefsten Oktaven gespielt werden.
   Die höchsten Oktaven erreicht man mit :kbd:`Ctrl`+:kbd:`8`.
+  Sie funktionieren ebenfalls, sobald das Fenster der virtuellen Tastatur aktiv ist.
+
+:kbd:`PageUp` / :kbd:`PageDown`
+: Diese Tasten wählen das vorherige oder nächste [gespielte Element](#doc_keyboard_element) aus, und zusammen mit der Taste :kbd:`Shift` die vorherige oder nächste Datei eines Soundfont-Explorers bzw. den vorherigen oder nächsten Editor.
   Sie funktionieren ebenfalls, sobald das Fenster der virtuellen Tastatur aktiv ist.
 
 :kbd:`→` / :kbd:`←`
@@ -285,6 +299,7 @@ Das Banner oben im Fenster enthält von links nach rechts:
 * eine Schaltfläche zum Stoppen der Wiedergabe und Zurückkehren zum Anfang,
 * eine Schaltfläche, die die [Wiedergabeeinstellungen](#doc_midi_player_settings) öffnet.
 
+Eine MIDI-Datei kann auch per Drag & Drop auf das Fenster geöffnet werden.
 Kann die Datei nicht gelesen werden, wird der Grund anstelle der Kanäle angezeigt.
 Die Wiedergabe stoppt, wenn das Fenster geschlossen wird.
 
